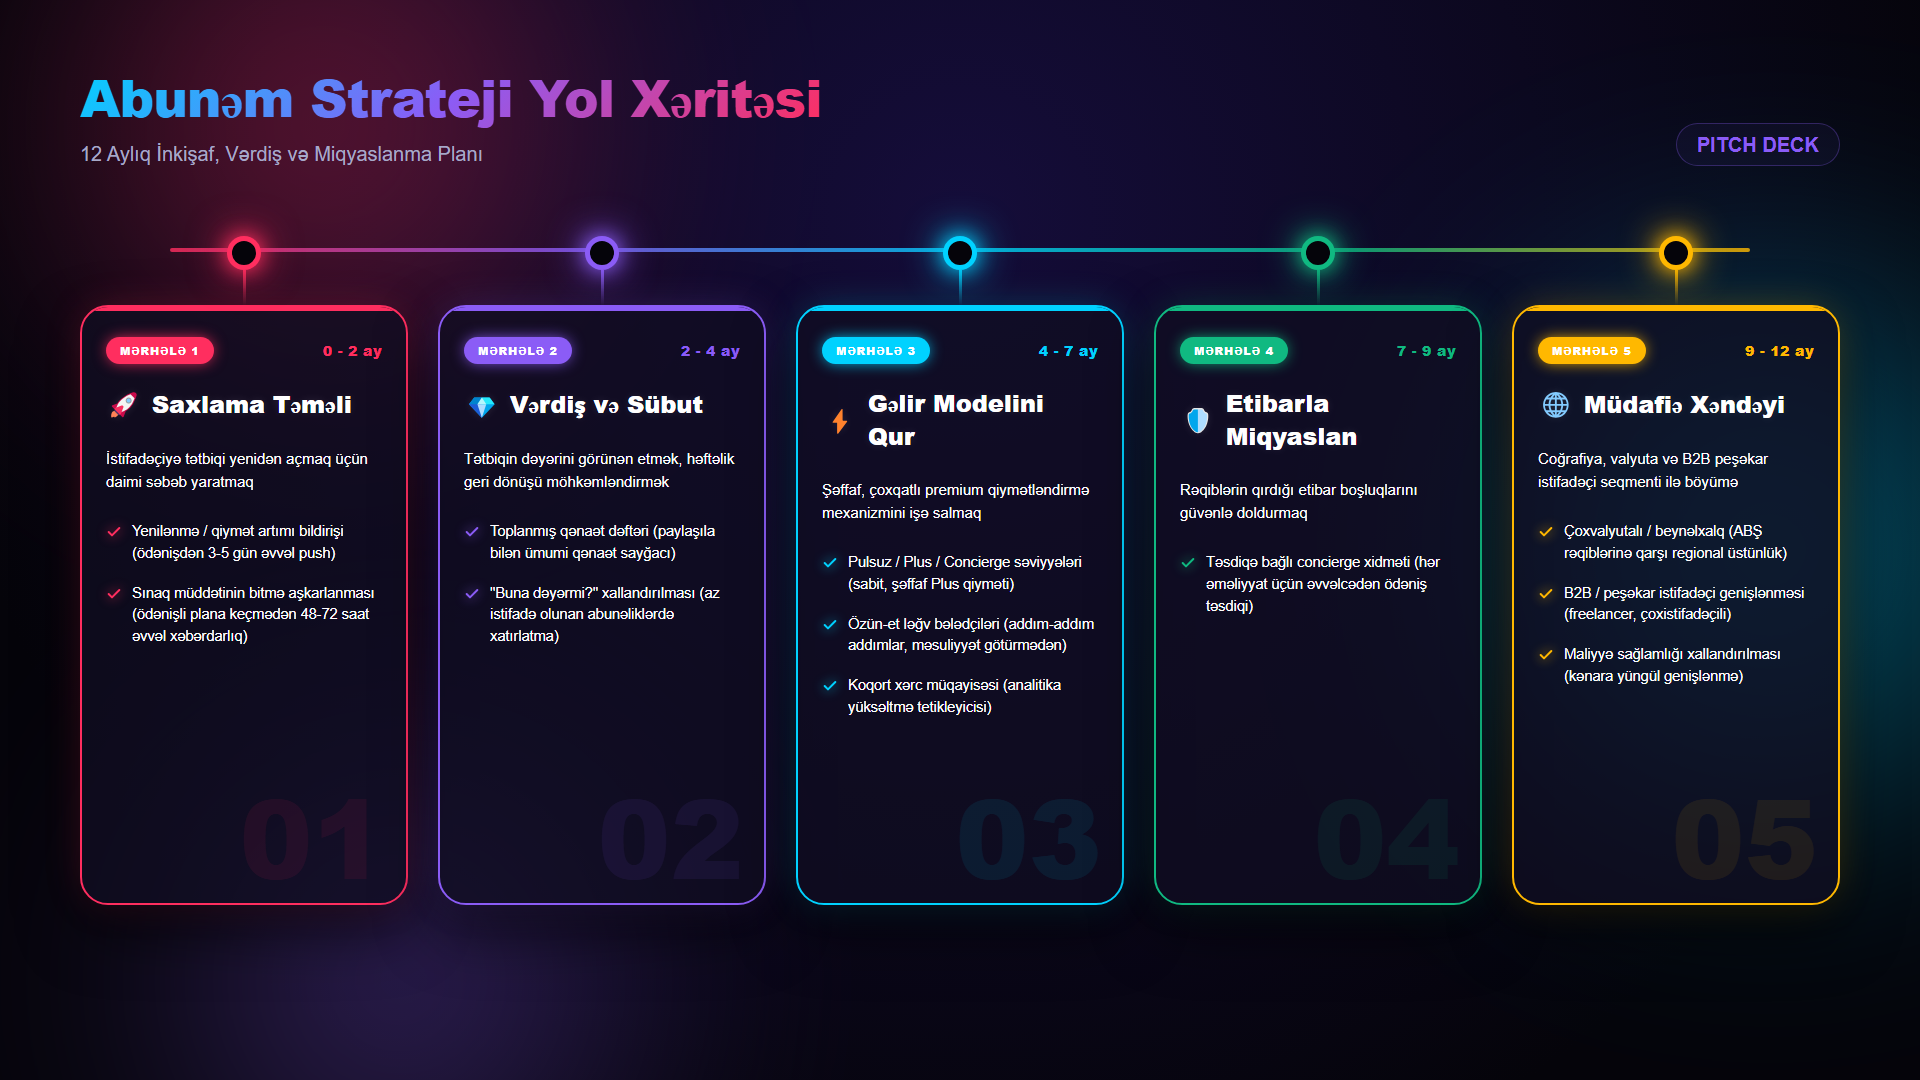
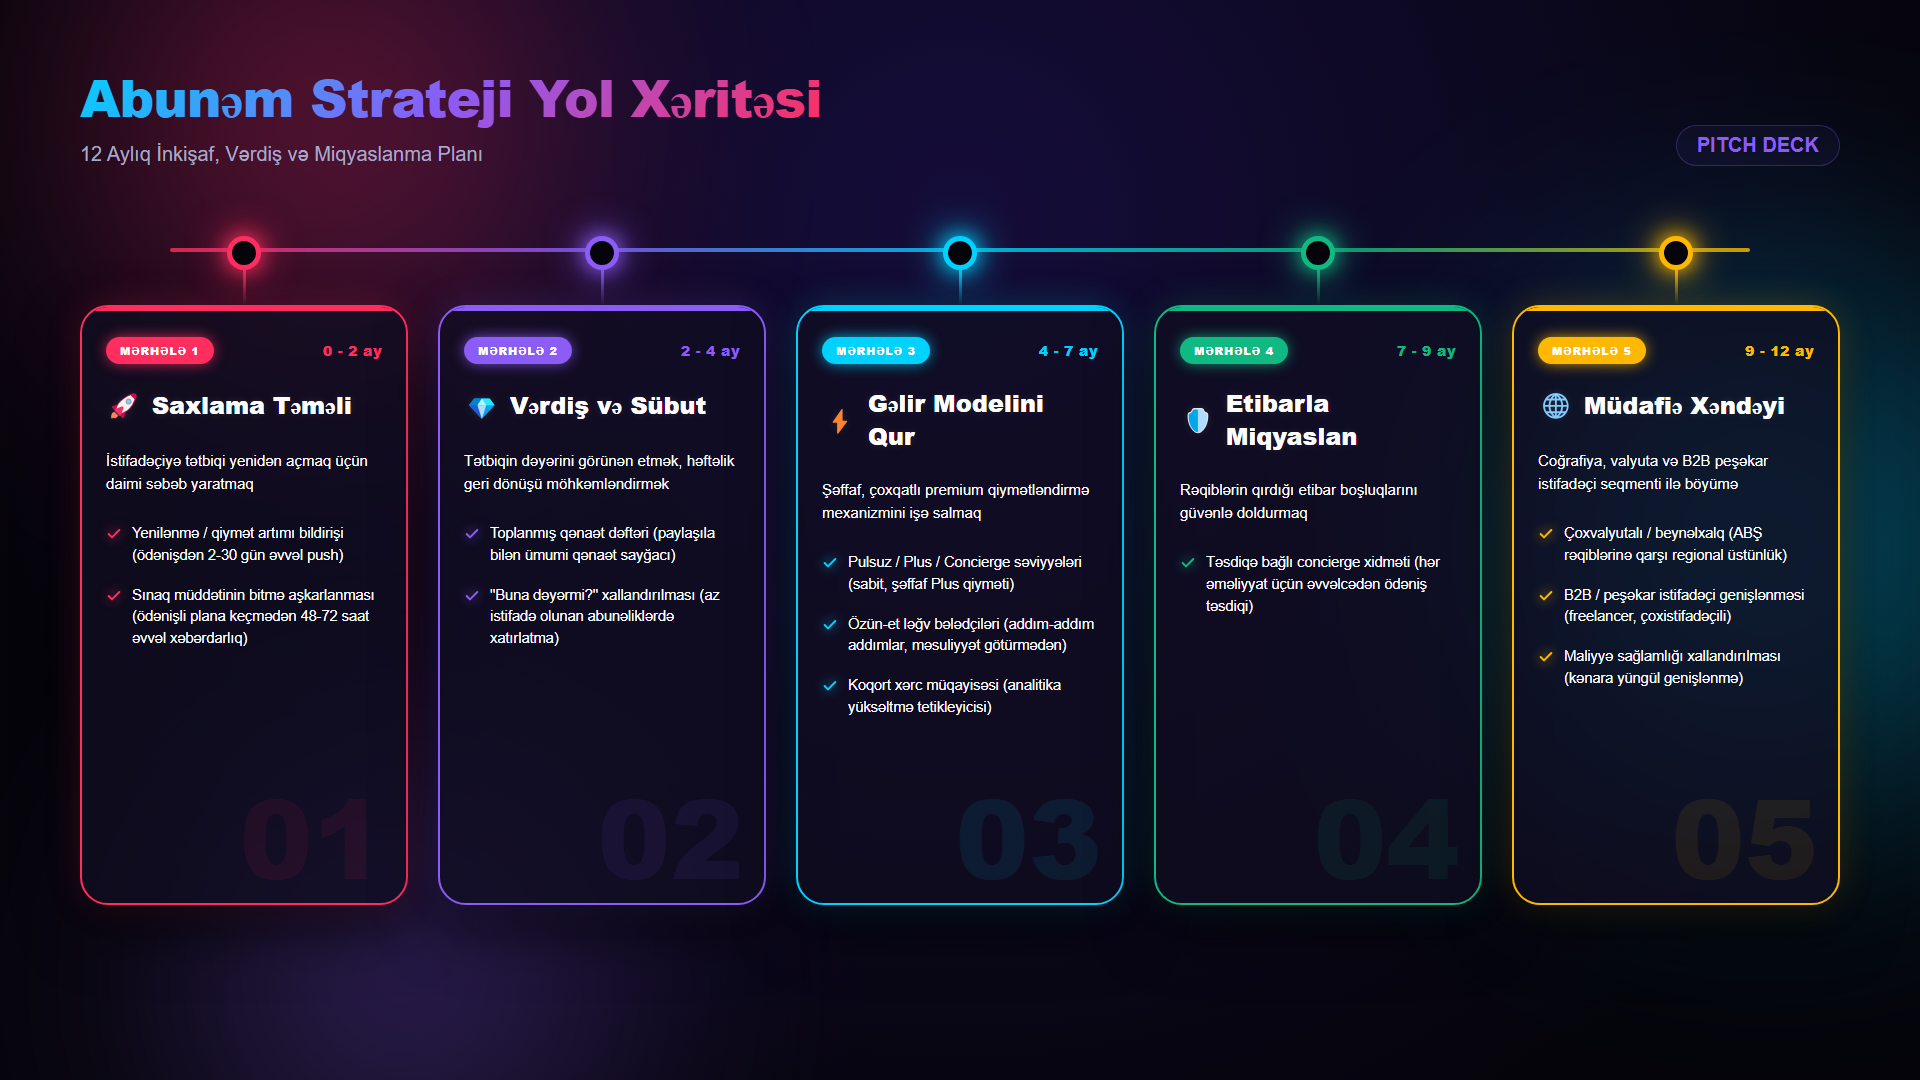
Update notification day range to 2-30 and encode all Azerbaijani characters for perfect slide rendering

diff --git a/public/roadmap.html b/public/roadmap.html
@@ -3,7 +3,7 @@
 <head>
   <meta charset="UTF-8">
   <meta name="viewport" content="width=device-width, initial-scale=1.0">
-  <title>Abunəm - Strateji Yol Xəritəsi</title>
+  <title>Abun&#601;m - Strateji Yol X&#601;rit&#601;si</title>
   <link rel="preconnect" href="https://fonts.googleapis.com">
   <link rel="preconnect" href="https://fonts.gstatic.com" crossorigin>
   <link href="https://fonts.googleapis.com/css2?family=Outfit:wght@400;500;600;700;800&family=Inter:wght@400;500;600&display=swap" rel="stylesheet">
@@ -215,18 +215,18 @@
 <body>
 
   <div class="header-area">
-    <h1>Abunəm Strateji Yol Xəritəsi</h1>
-    <p>12 Aylıq İnkişaf, Vərdiş və Miqyaslanma Planı</p>
+    <h1>Abun&#601;m Strateji Yol X&#601;rit&#601;si</h1>
+    <p>12 Ayl&#305;q İnki&#351;af, V&#601;rdi&#351; v&#601; Miqyaslanma Plan&#305;</p>
     
     <!-- Interactive View Controller Toggle -->
     <div class="layout-switcher">
       <button class="switch-btn active" id="btn-horizontal" onclick="setView('horizontal')">
         <svg viewBox="0 0 24 24"><path d="M4 6h16v2H4zm0 5h16v2H4zm0 5h16v2H4z"/></svg>
-        Üfüqi Lövhə
+        &#220;f&#252;qi L&#246;vh&#601;
       </button>
       <button class="switch-btn" id="btn-vertical" onclick="setView('vertical')">
         <svg viewBox="0 0 24 24"><path d="M4 9h16v2H4zm0 4h10v2H4z"/></svg>
-        Şaquli Zaman Xətti
+        &#350;aquli Zaman X&#601;tti
       </button>
     </div>
   </div>
@@ -241,19 +241,19 @@
       <div class="roadmap-card">
         <div class="bg-number">01</div>
         <div class="card-head">
-          <span class="phase-badge">Mərhələ 1</span>
+          <span class="phase-badge">M&#601;rh&#601;l&#601; 1</span>
           <span class="duration">0 - 2 ay</span>
         </div>
-        <h3 class="card-title"><span class="icon">🚀</span> Saxlama Təməli</h3>
-        <p class="card-sub">İstifadəçiyə tətbiqi yenidən açmaq üçün güclü səbəblər yaratmaq</p>
+        <h3 class="card-title"><span class="icon">🚀</span> Saxlama T&#601;m&#601;li</h3>
+        <p class="card-sub">İstifad&#601;&#231;iy&#601; t&#601;tbiqi yenid&#601;n a&#231;maq &#252;&#231;&#252;n g&#252;cl&#252; s&#601;b&#601;bl&#601;r yaratmaq</p>
         <ul class="feature-list">
           <li class="feature-item">
             <svg viewBox="0 0 24 24" fill="none" stroke="currentColor" stroke-width="3" stroke-linecap="round" stroke-linejoin="round"><polyline points="20 6 9 17 4 12"></polyline></svg>
-            <span>Yenilənmə / qiymət artımı bildirişi (ödənişdən 3-5 gün əvvəl push)</span>
+            <span>Yenil&#601;nm&#601; / qiym&#601;t art&#305;m&#305; bildiri&#351;i (&#246;d&#601;ni&#351;d&#601;n 2-30 g&#252;n &#601;vv&#601;l push)</span>
           </li>
           <li class="feature-item">
             <svg viewBox="0 0 24 24" fill="none" stroke="currentColor" stroke-width="3" stroke-linecap="round" stroke-linejoin="round"><polyline points="20 6 9 17 4 12"></polyline></svg>
-            <span>Sınaq müddətinin bitmə aşkarlanması (ödənişli plana keçmədən 48-72 saat əvvəl xəbərdarlıq)</span>
+            <span>S&#305;naq m&#252;dd&#601;tinin bitm&#601; a&#351;karlanmas&#305; (&#246;d&#601;ni&#351;li plana ke&#231;m&#601;d&#601;n 48-72 saat &#601;vv&#601;l x&#601;b&#601;rdarl&#305;q)</span>
           </li>
         </ul>
       </div>
@@ -266,19 +266,19 @@
       <div class="roadmap-card">
         <div class="bg-number">02</div>
         <div class="card-head">
-          <span class="phase-badge">Mərhələ 2</span>
+          <span class="phase-badge">M&#601;rh&#601;l&#601; 2</span>
           <span class="duration">2 - 4 ay</span>
         </div>
-        <h3 class="card-title"><span class="icon">💎</span> Vərdiş və Sübut</h3>
-        <p class="card-sub">Tətbiqin dəyərini görünən etmək, həftəlik geri dönüşü möhkəmləndirmək</p>
+        <h3 class="card-title"><span class="icon">💎</span> V&#601;rdi&#351; v&#601; S&#252;but</h3>
+        <p class="card-sub">T&#601;tbiqin d&#601;y&#601;rini g&#246;r&#252;n&#601;n etm&#601;k, h&#601;ft&#601;lik geri d&#246;n&#252;&#351;&#252; m&#246;hk&#601;ml&#601;ndirm&#601;k</p>
         <ul class="feature-list">
           <li class="feature-item">
             <svg viewBox="0 0 24 24" fill="none" stroke="currentColor" stroke-width="3" stroke-linecap="round" stroke-linejoin="round"><polyline points="20 6 9 17 4 12"></polyline></svg>
-            <span>Toplanmış qənaət dəftəri (paylaşıla bilən ümumi qənaət sayğacı)</span>
+            <span>Toplanm&#305;&#351; q&#601;na&#601;t d&#601;ft&#601;ri (payla&#351;&#305;la bil&#601;n &#252;mumi q&#601;na&#601;t say&#287;ac&#305;)</span>
           </li>
           <li class="feature-item">
             <svg viewBox="0 0 24 24" fill="none" stroke="currentColor" stroke-width="3" stroke-linecap="round" stroke-linejoin="round"><polyline points="20 6 9 17 4 12"></polyline></svg>
-            <span>"Buna dəyərmi?" xallandırılması (az istifadə olunan abunəliklərdə xatırlatma)</span>
+            <span>"Buna d&#601;y&#601;rmi?" xalland&#305;r&#305;lmas&#305; (az istifad&#601; olunan abun&#601;likl&#601;rd&#601; xat&#305;rlatma)</span>
           </li>
         </ul>
       </div>
@@ -291,23 +291,23 @@
       <div class="roadmap-card">
         <div class="bg-number">03</div>
         <div class="card-head">
-          <span class="phase-badge">Mərhələ 3</span>
+          <span class="phase-badge">M&#601;rh&#601;l&#601; 3</span>
           <span class="duration">4 - 7 ay</span>
         </div>
-        <h3 class="card-title"><span class="icon">⚡</span> Gəlir Modelini Qur</h3>
-        <p class="card-sub">Şəffaf, çoxqatlı premium qiymətləndirmə mexanizmini işə salmaq</p>
+        <h3 class="card-title"><span class="icon">⚡</span> G&#601;lir Modelini Qur</h3>
+        <p class="card-sub">&#350;&#601;ffaf, &#231;oxqatl&#305; premium qiym&#601;tl&#601;ndirm&#601; mexanizmini i&#351;&#601; salmaq</p>
         <ul class="feature-list">
           <li class="feature-item">
             <svg viewBox="0 0 24 24" fill="none" stroke="currentColor" stroke-width="3" stroke-linecap="round" stroke-linejoin="round"><polyline points="20 6 9 17 4 12"></polyline></svg>
-            <span>Pulsuz / Plus / Concierge səviyyələri (sabit, şəffaf Plus qiyməti)</span>
+            <span>Pulsuz / Plus / Concierge s&#601;viyy&#601;l&#601;ri (sabit, &#351;&#601;ffaf Plus qiym&#601;ti)</span>
           </li>
           <li class="feature-item">
             <svg viewBox="0 0 24 24" fill="none" stroke="currentColor" stroke-width="3" stroke-linecap="round" stroke-linejoin="round"><polyline points="20 6 9 17 4 12"></polyline></svg>
-            <span>Özün-et ləğv bələdçiləri (addım-addım addımlar, məsuliyyət götürmədən)</span>
+            <span>&#214;z&#252;n-et l&#601;&#287;v b&#601;l&#601;d&#231;il&#601;ri (add&#305;m-add&#305;m add&#305;mlar, m&#601;suliyy&#601;t g&#246;t&#252;rm&#601;d&#601;n)</span>
           </li>
           <li class="feature-item">
             <svg viewBox="0 0 24 24" fill="none" stroke="currentColor" stroke-width="3" stroke-linecap="round" stroke-linejoin="round"><polyline points="20 6 9 17 4 12"></polyline></svg>
-            <span>Koqort xərc müqayisəsi (analitika yüksəltmə tetikleyicisi)</span>
+            <span>Koqort x&#601;rc m&#252;qayis&#601;si (analitika y&#252;ks&#601;ltm&#601; tetikleyicisi)</span>
           </li>
         </ul>
       </div>
@@ -320,15 +320,15 @@
       <div class="roadmap-card">
         <div class="bg-number">04</div>
         <div class="card-head">
-          <span class="phase-badge">Mərhələ 4</span>
+          <span class="phase-badge">M&#601;rh&#601;l&#601; 4</span>
           <span class="duration">7 - 9 ay</span>
         </div>
         <h3 class="card-title"><span class="icon">🛡️</span> Etibarla Miqyaslan</h3>
-        <p class="card-sub">Rəqiblərin qırdığı etibar boşluqlarını güvənlə doldurmaq</p>
+        <p class="card-sub">R&#601;qibl&#601;rin q&#305;rd&#305;&#287;&#305; etibar bo&#351;luqlar&#305;n&#305; g&#252;v&#601;nl&#601; doldurmaq</p>
         <ul class="feature-list">
           <li class="feature-item">
             <svg viewBox="0 0 24 24" fill="none" stroke="currentColor" stroke-width="3" stroke-linecap="round" stroke-linejoin="round"><polyline points="20 6 9 17 4 12"></polyline></svg>
-            <span>Təsdiqə bağlı concierge xidməti (hər əməliyyat üçün əvvəlcədən ödəniş təsdiqi)</span>
+            <span>T&#601;sdiq&#601; ba&#287;l&#305; concierge xidm&#601;ti (h&#601;r &#601;m&#601;liyyat &#252;&#231;&#252;n &#601;vv&#601;lc&#601;d&#601;n &#246;d&#601;ni&#351; t&#601;sdiqi)</span>
           </li>
         </ul>
       </div>
@@ -341,23 +341,23 @@
       <div class="roadmap-card">
         <div class="bg-number">05</div>
         <div class="card-head">
-          <span class="phase-badge">Mərhələ 5</span>
+          <span class="phase-badge">M&#601;rh&#601;l&#601; 5</span>
           <span class="duration">9 - 12 ay</span>
         </div>
-        <h3 class="card-title"><span class="icon">🌐</span> Müdafiə Xəndəyi</h3>
-        <p class="card-sub">Coğrafiya, valyuta və B2B peşəkar istifadəçi kateqoriyaları ilə böyümə</p>
+        <h3 class="card-title"><span class="icon">🌐</span> M&#252;dafi&#601; X&#601;nd&#601;yi</h3>
+        <p class="card-sub">Co&#287;rafiya, valyuta v&#601; B2B pe&#351;&#601;kar istifad&#601;&#231;i kateqoriyalar&#305; il&#601; b&#246;y&#252;m&#601;</p>
         <ul class="feature-list">
           <li class="feature-item">
             <svg viewBox="0 0 24 24" fill="none" stroke="currentColor" stroke-width="3" stroke-linecap="round" stroke-linejoin="round"><polyline points="20 6 9 17 4 12"></polyline></svg>
-            <span>Çoxvalyutalı / beynəlxalq (ABŞ rəqiblərinə qarşı regional üstünlük)</span>
+            <span>&#199;oxvalyutal&#305; / beyn&#601;lxalq (AB&#350; r&#601;qibl&#601;rin&#601; qar&#351;&#305; regional &#252;st&#252;nl&#252;k)</span>
           </li>
           <li class="feature-item">
             <svg viewBox="0 0 24 24" fill="none" stroke="currentColor" stroke-width="3" stroke-linecap="round" stroke-linejoin="round"><polyline points="20 6 9 17 4 12"></polyline></svg>
-            <span>B2B / peşəkar istifadəçi genişlənməsi (freelancer, çoxistifadəçili)</span>
+            <span>B2B / pe&#351;&#601;kar istifad&#601;&#231;i geni&#351;l&#601;nm&#601;si (freelancer, &#231;oxistifad&#601;&#231;ili)</span>
           </li>
           <li class="feature-item">
             <svg viewBox="0 0 24 24" fill="none" stroke="currentColor" stroke-width="3" stroke-linecap="round" stroke-linejoin="round"><polyline points="20 6 9 17 4 12"></polyline></svg>
-            <span>Maliyyə sağlamlığı xallandırılması (kənara yüngül genişlənmə)</span>
+            <span>Maliyy&#601; sa&#287;laml&#305;&#287;&#305; xalland&#305;r&#305;lmas&#305; (k&#601;nara y&#252;ng&#252;l geni&#351;l&#601;nm&#601;)</span>
           </li>
         </ul>
       </div>

diff --git a/public/roadmap_slide.html b/public/roadmap_slide.html
@@ -2,7 +2,7 @@
 <html lang="az">
 <head>
   <meta charset="UTF-8">
-  <title>Abunəm - Yol Xəritəsi Slaydı</title>
+  <title>Abun&#601;m - Yol X&#601;rit&#601;si Slayd&#305;</title>
   <link rel="preconnect" href="https://fonts.googleapis.com">
   <link rel="preconnect" href="https://fonts.gstatic.com" crossorigin>
   <link href="https://fonts.googleapis.com/css2?family=Outfit:wght@500;700;800&family=Inter:wght@400;500;600;700&display=swap" rel="stylesheet">
@@ -172,8 +172,8 @@
 
   <div class="slide-header">
     <div class="header-left">
-      <h1>Abunəm Strateji Yol Xəritəsi</h1>
-      <p>12 Aylıq İnkişaf, Vərdiş və Miqyaslanma Planı</p>
+      <h1>Abun&#601;m Strateji Yol X&#601;rit&#601;si</h1>
+      <p>12 Ayl&#305;q İnki&#351;af, V&#601;rdi&#351; v&#601; Miqyaslanma Plan&#305;</p>
     </div>
     <div class="header-right">PITCH DECK</div>
   </div>
@@ -187,19 +187,19 @@
       <div class="slide-card">
         <div class="bg-digit">01</div>
         <div class="card-meta">
-          <span class="card-badge">Mərhələ 1</span>
+          <span class="card-badge">M&#601;rh&#601;l&#601; 1</span>
           <span class="card-time">0 - 2 ay</span>
         </div>
-        <h3 class="card-title"><span class="icon">🚀</span> Saxlama Təməli</h3>
-        <p class="card-desc">İstifadəçiyə tətbiqi yenidən açmaq üçün daimi səbəb yaratmaq</p>
+        <h3 class="card-title"><span class="icon">🚀</span> Saxlama T&#601;m&#601;li</h3>
+        <p class="card-desc">İstifad&#601;&#231;iy&#601; t&#601;tbiqi yenid&#601;n a&#231;maq &#252;&#231;&#252;n daimi s&#601;b&#601;b yaratmaq</p>
         <ul class="list-features">
           <li class="list-item">
             <svg viewBox="0 0 24 24" fill="none" stroke="currentColor" stroke-width="3" stroke-linecap="round" stroke-linejoin="round"><polyline points="20 6 9 17 4 12"></polyline></svg>
-            <span>Yenilənmə / qiymət artımı bildirişi (ödənişdən 3-5 gün əvvəl push)</span>
+            <span>Yenil&#601;nm&#601; / qiym&#601;t art&#305;m&#305; bildiri&#351;i (&#246;d&#601;ni&#351;d&#601;n 2-30 g&#252;n &#601;vv&#601;l push)</span>
           </li>
           <li class="list-item">
             <svg viewBox="0 0 24 24" fill="none" stroke="currentColor" stroke-width="3" stroke-linecap="round" stroke-linejoin="round"><polyline points="20 6 9 17 4 12"></polyline></svg>
-            <span>Sınaq müddətinin bitmə aşkarlanması (ödənişli plana keçmədən 48-72 saat əvvəl xəbərdarlıq)</span>
+            <span>S&#305;naq m&#252;dd&#601;tinin bitm&#601; a&#351;karlanmas&#305; (&#246;d&#601;ni&#351;li plana ke&#231;m&#601;d&#601;n 48-72 saat &#601;vv&#601;l x&#601;b&#601;rdarl&#305;q)</span>
           </li>
         </ul>
       </div>
@@ -212,19 +212,19 @@
       <div class="slide-card">
         <div class="bg-digit">02</div>
         <div class="card-meta">
-          <span class="card-badge">Mərhələ 2</span>
+          <span class="card-badge">M&#601;rh&#601;l&#601; 2</span>
           <span class="card-time">2 - 4 ay</span>
         </div>
-        <h3 class="card-title"><span class="icon">💎</span> Vərdiş və Sübut</h3>
-        <p class="card-desc">Tətbiqin dəyərini görünən etmək, həftəlik geri dönüşü möhkəmləndirmək</p>
+        <h3 class="card-title"><span class="icon">💎</span> V&#601;rdi&#351; v&#601; S&#252;but</h3>
+        <p class="card-desc">T&#601;tbiqin d&#601;y&#601;rini g&#246;r&#252;n&#601;n etm&#601;k, h&#601;ft&#601;lik geri d&#246;n&#252;&#351;&#252; m&#246;hk&#601;ml&#601;ndirm&#601;k</p>
         <ul class="list-features">
           <li class="list-item">
             <svg viewBox="0 0 24 24" fill="none" stroke="currentColor" stroke-width="3" stroke-linecap="round" stroke-linejoin="round"><polyline points="20 6 9 17 4 12"></polyline></svg>
-            <span>Toplanmış qənaət dəftəri (paylaşıla bilən ümumi qənaət sayğacı)</span>
+            <span>Toplanm&#305;&#351; q&#601;na&#601;t d&#601;ft&#601;ri (payla&#351;&#305;la bil&#601;n &#252;mumi q&#601;na&#601;t say&#287;ac&#305;)</span>
           </li>
           <li class="list-item">
             <svg viewBox="0 0 24 24" fill="none" stroke="currentColor" stroke-width="3" stroke-linecap="round" stroke-linejoin="round"><polyline points="20 6 9 17 4 12"></polyline></svg>
-            <span>"Buna dəyərmi?" xallandırılması (az istifadə olunan abunəliklərdə xatırlatma)</span>
+            <span>"Buna d&#601;y&#601;rmi?" xalland&#305;r&#305;lmas&#305; (az istifad&#601; olunan abun&#601;likl&#601;rd&#601; xat&#305;rlatma)</span>
           </li>
         </ul>
       </div>
@@ -237,23 +237,23 @@
       <div class="slide-card">
         <div class="bg-digit">03</div>
         <div class="card-meta">
-          <span class="card-badge">Mərhələ 3</span>
+          <span class="card-badge">M&#601;rh&#601;l&#601; 3</span>
           <span class="card-time">4 - 7 ay</span>
         </div>
-        <h3 class="card-title"><span class="icon">⚡</span> Gəlir Modelini Qur</h3>
-        <p class="card-desc">Şəffaf, çoxqatlı premium qiymətləndirmə mexanizmini işə salmaq</p>
+        <h3 class="card-title"><span class="icon">⚡</span> G&#601;lir Modelini Qur</h3>
+        <p class="card-desc">&#350;&#601;ffaf, &#231;oxqatl&#305; premium qiym&#601;tl&#601;ndirm&#601; mexanizmini i&#351;&#601; salmaq</p>
         <ul class="list-features">
           <li class="list-item">
             <svg viewBox="0 0 24 24" fill="none" stroke="currentColor" stroke-width="3" stroke-linecap="round" stroke-linejoin="round"><polyline points="20 6 9 17 4 12"></polyline></svg>
-            <span>Pulsuz / Plus / Concierge səviyyələri (sabit, şəffaf Plus qiyməti)</span>
+            <span>Pulsuz / Plus / Concierge s&#601;viyy&#601;l&#601;ri (sabit, &#351;&#601;ffaf Plus qiym&#601;ti)</span>
           </li>
           <li class="list-item">
             <svg viewBox="0 0 24 24" fill="none" stroke="currentColor" stroke-width="3" stroke-linecap="round" stroke-linejoin="round"><polyline points="20 6 9 17 4 12"></polyline></svg>
-            <span>Özün-et ləğv bələdçiləri (addım-addım addımlar, məsuliyyət götürmədən)</span>
+            <span>&#214;z&#252;n-et l&#601;&#287;v b&#601;l&#601;d&#231;il&#601;ri (add&#305;m-add&#305;m add&#305;mlar, m&#601;suliyy&#601;t g&#246;t&#252;rm&#601;d&#601;n)</span>
           </li>
           <li class="list-item">
             <svg viewBox="0 0 24 24" fill="none" stroke="currentColor" stroke-width="3" stroke-linecap="round" stroke-linejoin="round"><polyline points="20 6 9 17 4 12"></polyline></svg>
-            <span>Koqort xərc müqayisəsi (analitika yüksəltmə tetikleyicisi)</span>
+            <span>Koqort x&#601;rc m&#252;qayis&#601;si (analitika y&#252;ks&#601;ltm&#601; tetikleyicisi)</span>
           </li>
         </ul>
       </div>
@@ -266,15 +266,15 @@
       <div class="slide-card">
         <div class="bg-digit">04</div>
         <div class="card-meta">
-          <span class="card-badge">Mərhələ 4</span>
+          <span class="card-badge">M&#601;rh&#601;l&#601; 4</span>
           <span class="card-time">7 - 9 ay</span>
         </div>
         <h3 class="card-title"><span class="icon">🛡️</span> Etibarla Miqyaslan</h3>
-        <p class="card-desc">Rəqiblərin qırdığı etibar boşluqlarını güvənlə doldurmaq</p>
+        <p class="card-desc">R&#601;qibl&#601;rin q&#305;rd&#305;&#287;&#305; etibar bo&#351;luqlar&#305;n&#305; g&#252;v&#601;nl&#601; doldurmaq</p>
         <ul class="list-features">
           <li class="list-item">
             <svg viewBox="0 0 24 24" fill="none" stroke="currentColor" stroke-width="3" stroke-linecap="round" stroke-linejoin="round"><polyline points="20 6 9 17 4 12"></polyline></svg>
-            <span>Təsdiqə bağlı concierge xidməti (hər əməliyyat üçün əvvəlcədən ödəniş təsdiqi)</span>
+            <span>T&#601;sdiq&#601; ba&#287;l&#305; concierge xidm&#601;ti (h&#601;r &#601;m&#601;liyyat &#252;&#231;&#252;n &#601;vv&#601;lc&#601;d&#601;n &#246;d&#601;ni&#351; t&#601;sdiqi)</span>
           </li>
         </ul>
       </div>
@@ -287,23 +287,23 @@
       <div class="slide-card">
         <div class="bg-digit">05</div>
         <div class="card-meta">
-          <span class="card-badge">Mərhələ 5</span>
+          <span class="card-badge">M&#601;rh&#601;l&#601; 5</span>
           <span class="card-time">9 - 12 ay</span>
         </div>
-        <h3 class="card-title"><span class="icon">🌐</span> Müdafiə Xəndəyi</h3>
-        <p class="card-desc">Coğrafiya, valyuta və B2B peşəkar istifadəçi seqmenti ilə böyümə</p>
+        <h3 class="card-title"><span class="icon">🌐</span> M&#252;dafi&#601; X&#601;nd&#601;yi</h3>
+        <p class="card-desc">Co&#287;rafiya, valyuta v&#601; B2B pe&#351;&#601;kar istifad&#601;&#231;i seqmenti il&#601; b&#246;y&#252;m&#601;</p>
         <ul class="list-features">
           <li class="list-item">
             <svg viewBox="0 0 24 24" fill="none" stroke="currentColor" stroke-width="3" stroke-linecap="round" stroke-linejoin="round"><polyline points="20 6 9 17 4 12"></polyline></svg>
-            <span>Çoxvalyutalı / beynəlxalq (ABŞ rəqiblərinə qarşı regional üstünlük)</span>
+            <span>&#199;oxvalyutal&#305; / beyn&#601;lxalq (AB&#350; r&#601;qibl&#601;rin&#601; qar&#351;&#305; regional &#252;st&#252;nl&#252;k)</span>
           </li>
           <li class="list-item">
             <svg viewBox="0 0 24 24" fill="none" stroke="currentColor" stroke-width="3" stroke-linecap="round" stroke-linejoin="round"><polyline points="20 6 9 17 4 12"></polyline></svg>
-            <span>B2B / peşəkar istifadəçi genişlənməsi (freelancer, çoxistifadəçili)</span>
+            <span>B2B / pe&#351;&#601;kar istifad&#601;&#231;i geni&#351;l&#601;nm&#601;si (freelancer, &#231;oxistifad&#601;&#231;ili)</span>
           </li>
           <li class="list-item">
             <svg viewBox="0 0 24 24" fill="none" stroke="currentColor" stroke-width="3" stroke-linecap="round" stroke-linejoin="round"><polyline points="20 6 9 17 4 12"></polyline></svg>
-            <span>Maliyyə sağlamlığı xallandırılması (kənara yüngül genişlənmə)</span>
+            <span>Maliyy&#601; sa&#287;laml&#305;&#287;&#305; xalland&#305;r&#305;lmas&#305; (k&#601;nara y&#252;ng&#252;l geni&#351;l&#601;nm&#601;)</span>
           </li>
         </ul>
       </div>